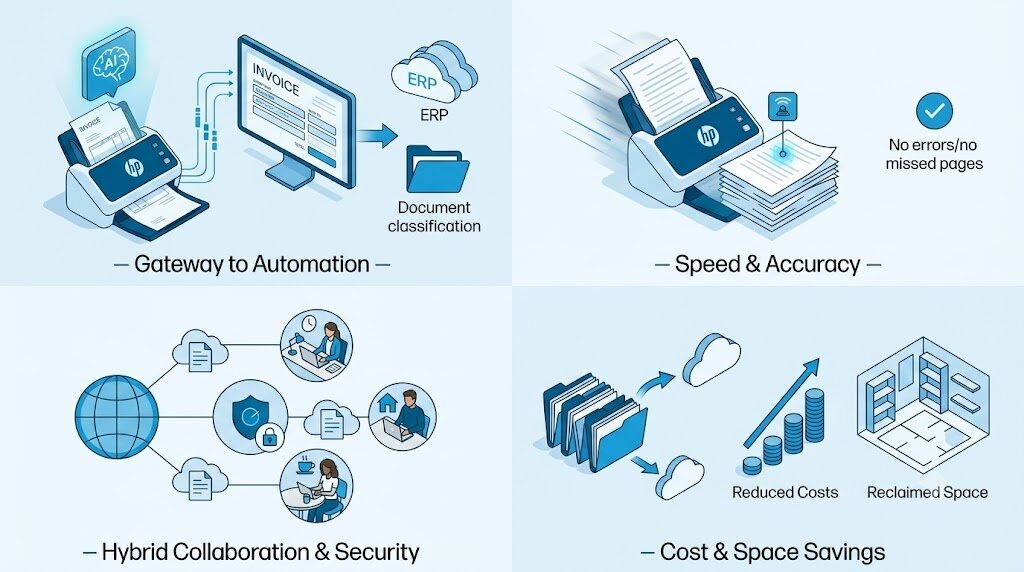
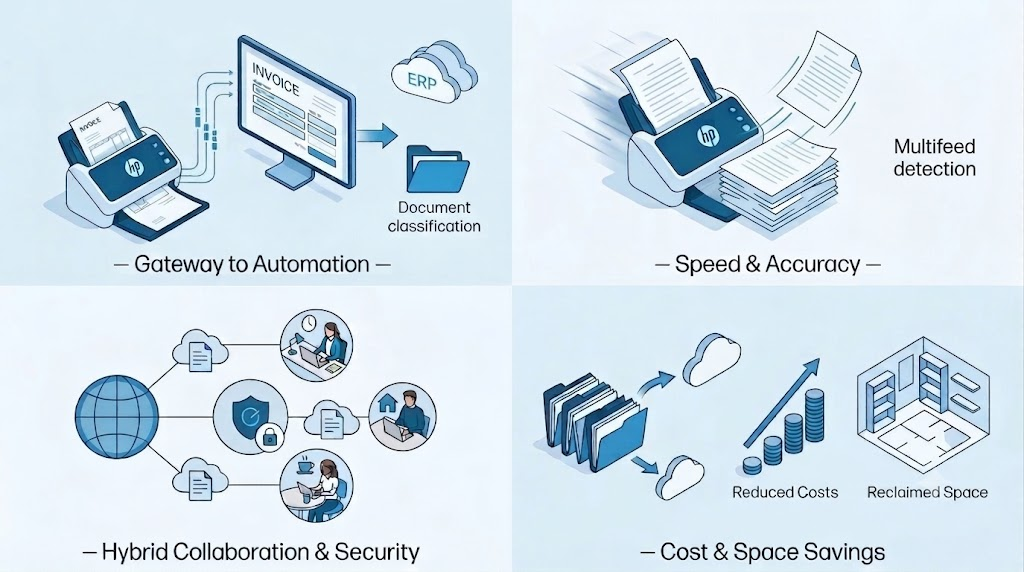
Rename product images to descriptive names, add missing images
Deleted images have been replaced by better-named versions used across
content pages; original unoptimized copies are kept locally only
(now gitignored) and excluded from the repo.

diff --git a/content/products.html b/content/products.html
@@ -33,7 +33,7 @@
   <!-- 1 -->
   <div class="product-card">
     <div class="product-card-img">
-      <img loading="lazy" decoding="async" src="assets/images/2000-s2.png" alt="HP ScanJet Pro 2000 s2">
+      <img loading="lazy" decoding="async" src="assets/images/HP%20ScanJet%20Pro%202000%20s2.png" alt="HP ScanJet Pro 2000 s2">
       <span class="product-tier-badge">Pro</span>
     </div>
     <div class="product-card-body">
@@ -49,7 +49,7 @@
         <div class="product-spec-row"><span class="product-spec-label">Connectivity</span><span class="product-spec-value">USB 3.0</span></div>
         <div class="product-spec-row"><span class="product-spec-label">Daily Duty Cycle</span><span class="product-spec-value">3,500 pages</span></div>
         <div class="product-spec-row"><span class="product-spec-label">Warranty</span><span class="product-spec-value">1 Year Return to HP</span></div>
-        <div class="product-spec-row"><span class="product-spec-label">SRP Price</span><span class="product-spec-value">12,020 บาท</span></div>
+        <div class="product-spec-row"><span class="product-spec-label">SRP Price</span><span class="product-spec-value">12,090 บาท</span></div>
       </div>
     </div>
     <div class="product-card-footer">
@@ -60,7 +60,7 @@
   <!-- 2 -->
   <div class="product-card">
     <div class="product-card-img">
-      <img loading="lazy" decoding="async" src="assets/images/3000-s4.png" alt="HP ScanJet Pro 3000 s4">
+      <img loading="lazy" decoding="async" src="assets/images/HP%20ScanJet%20Pro%203000%20s4.png" alt="HP ScanJet Pro 3000 s4">
       <span class="product-tier-badge">Pro</span>
     </div>
     <div class="product-card-body">
@@ -76,7 +76,7 @@
         <div class="product-spec-row"><span class="product-spec-label">Connectivity</span><span class="product-spec-value">USB 3.0</span></div>
         <div class="product-spec-row"><span class="product-spec-label">Daily Duty Cycle</span><span class="product-spec-value">4,000 pages</span></div>
         <div class="product-spec-row"><span class="product-spec-label">Warranty</span><span class="product-spec-value">1 Year Return to HP</span></div>
-        <div class="product-spec-row"><span class="product-spec-label">SRP Price</span><span class="product-spec-value">16,155 บาท</span></div>
+        <div class="product-spec-row"><span class="product-spec-label">SRP Price</span><span class="product-spec-value">16,190 บาท</span></div>
       </div>
     </div>
     <div class="product-card-footer">
@@ -87,7 +87,7 @@
   <!-- 3 -->
   <div class="product-card">
     <div class="product-card-img">
-      <img loading="lazy" decoding="async" src="assets/images/n4000-snw1.png" alt="HP ScanJet Pro N4000 snw1">
+      <img loading="lazy" decoding="async" src="assets/images/HP%20ScanJet%20Pro%20N4000%20snw1.png" alt="HP ScanJet Pro N4000 snw1">
       <span class="product-tier-badge">Pro</span>
     </div>
     <div class="product-card-body">
@@ -103,7 +103,7 @@
         <div class="product-spec-row"><span class="product-spec-label">Connectivity</span><span class="product-spec-value">USB 3.0, Ethernet, WiFi</span></div>
         <div class="product-spec-row"><span class="product-spec-label">Daily Duty Cycle</span><span class="product-spec-value">4,000 pages</span></div>
         <div class="product-spec-row"><span class="product-spec-label">Warranty</span><span class="product-spec-value">1 Year Return to HP</span></div>
-        <div class="product-spec-row"><span class="product-spec-label">SRP Price</span><span class="product-spec-value">20,070 บาท</span></div>
+        <div class="product-spec-row"><span class="product-spec-label">SRP Price</span><span class="product-spec-value">20,090 บาท</span></div>
       </div>
     </div>
     <div class="product-card-footer">
@@ -114,7 +114,7 @@
   <!-- 4 -->
   <div class="product-card">
     <div class="product-card-img">
-      <img loading="lazy" decoding="async" src="assets/images/4200-s1.png" alt="HP ScanJet Pro 4200 s1 Scanner">
+      <img loading="lazy" decoding="async" src="assets/images/HP%20ScanJet%20Pro%204200%20s1.png" alt="HP ScanJet Pro 4200 s1 Scanner">
       <span class="product-tier-badge">Pro</span>
     </div>
     <div class="product-card-body">
@@ -130,7 +130,7 @@
         <div class="product-spec-row"><span class="product-spec-label">Connectivity</span><span class="product-spec-value">USB 3.0</span></div>
         <div class="product-spec-row"><span class="product-spec-label">Daily Duty Cycle</span><span class="product-spec-value">4,500 pages</span></div>
         <div class="product-spec-row"><span class="product-spec-label">Warranty</span><span class="product-spec-value">1 Year Return to HP</span></div>
-        <div class="product-spec-row"><span class="product-spec-label">SRP Price</span><span class="product-spec-value">19,900 บาท</span></div>
+        <div class="product-spec-row"><span class="product-spec-label">SRP Price</span><span class="product-spec-value">19,890 บาท</span></div>
       </div>
     </div>
     <div class="product-card-footer">
@@ -141,7 +141,7 @@
   <!-- 5 -->
   <div class="product-card">
     <div class="product-card-img">
-      <img loading="lazy" decoding="async" src="assets/images/5000-s5.png" alt="HP ScanJet Enterprise Flow 5000 s5">
+      <img loading="lazy" decoding="async" src="assets/images/HP%20ScanJet%20Enterprise%20Flow%205000%20s5.png" alt="HP ScanJet Enterprise Flow 5000 s5">
       <span class="product-tier-badge is-premium">Enterprise</span>
     </div>
     <div class="product-card-body">
@@ -157,7 +157,7 @@
         <div class="product-spec-row"><span class="product-spec-label">Connectivity</span><span class="product-spec-value">USB 3.0</span></div>
         <div class="product-spec-row"><span class="product-spec-label">Daily Duty Cycle</span><span class="product-spec-value">7,500 pages</span></div>
         <div class="product-spec-row"><span class="product-spec-label">Warranty</span><span class="product-spec-value">1 Year Return to HP</span></div>
-        <div class="product-spec-row"><span class="product-spec-label">SRP Price</span><span class="product-spec-value">24,640 บาท</span></div>
+        <div class="product-spec-row"><span class="product-spec-label">SRP Price</span><span class="product-spec-value">24,690 บาท</span></div>
       </div>
     </div>
     <div class="product-card-footer">
@@ -168,7 +168,7 @@
   <!-- 6 -->
   <div class="product-card">
     <div class="product-card-img">
-      <img loading="lazy" decoding="async" src="assets/images/7000-s3.png" alt="HP ScanJet Enterprise Flow 7000 s3">
+      <img loading="lazy" decoding="async" src="assets/images/HP%20ScanJet%20Enterprise%20Flow%207000%20s3.png" alt="HP ScanJet Enterprise Flow 7000 s3">
       <span class="product-tier-badge is-premium">Enterprise</span>
     </div>
     <div class="product-card-body">
@@ -184,7 +184,7 @@
         <div class="product-spec-row"><span class="product-spec-label">Connectivity</span><span class="product-spec-value">USB 3.0</span></div>
         <div class="product-spec-row"><span class="product-spec-label">Daily Duty Cycle</span><span class="product-spec-value">7,500 pages</span></div>
         <div class="product-spec-row"><span class="product-spec-label">Warranty</span><span class="product-spec-value">1 Year Return to HP</span></div>
-        <div class="product-spec-row"><span class="product-spec-label">SRP Price</span><span class="product-spec-value">35,600 บาท</span></div>
+        <div class="product-spec-row"><span class="product-spec-label">SRP Price</span><span class="product-spec-value">35,590 บาท</span></div>
       </div>
     </div>
     <div class="product-card-footer">
@@ -195,7 +195,7 @@
   <!-- 7 -->
   <div class="product-card">
     <div class="product-card-img">
-      <img loading="lazy" decoding="async" src="assets/images/n7000-snw1.png" alt="HP ScanJet Enterprise Flow N7000 snw1">
+      <img loading="lazy" decoding="async" src="assets/images/HP%20ScanJet%20Enterprise%20Flow%20N7000%20snw1.png" alt="HP ScanJet Enterprise Flow N7000 snw1">
       <span class="product-tier-badge is-premium">Enterprise</span>
     </div>
     <div class="product-card-body">
@@ -211,7 +211,7 @@
         <div class="product-spec-row"><span class="product-spec-label">Connectivity</span><span class="product-spec-value">USB 3.0, Ethernet, WiFi</span></div>
         <div class="product-spec-row"><span class="product-spec-label">Daily Duty Cycle</span><span class="product-spec-value">7,500 pages</span></div>
         <div class="product-spec-row"><span class="product-spec-label">Warranty</span><span class="product-spec-value">1 Year Return to HP</span></div>
-        <div class="product-spec-row"><span class="product-spec-label">SRP Price</span><span class="product-spec-value">33,700 บาท</span></div>
+        <div class="product-spec-row"><span class="product-spec-label">SRP Price</span><span class="product-spec-value">33,690 บาท</span></div>
       </div>
     </div>
     <div class="product-card-footer">
@@ -222,7 +222,7 @@
   <!-- 8 -->
   <div class="product-card">
     <div class="product-card-img">
-      <img loading="lazy" decoding="async" src="assets/images/9000-s1.png" alt="HP ScanJet Enterprise Flow 9000 s1 Scanner">
+      <img loading="lazy" decoding="async" src="assets/images/HP%20ScanJet%20Enterprise%209000%20s1.png" alt="HP ScanJet Enterprise Flow 9000 s1 Scanner">
       <span class="product-tier-badge is-premium">Enterprise</span>
     </div>
     <div class="product-card-body">
@@ -238,7 +238,7 @@
         <div class="product-spec-row"><span class="product-spec-label">Connectivity</span><span class="product-spec-value">USB 3.0</span></div>
         <div class="product-spec-row"><span class="product-spec-label">Daily Duty Cycle</span><span class="product-spec-value">30,000 pages</span></div>
         <div class="product-spec-row"><span class="product-spec-label">Warranty</span><span class="product-spec-value">1 Year Return to HP</span></div>
-        <div class="product-spec-row"><span class="product-spec-label">SRP Price</span><span class="product-spec-value">81,000 บาท</span></div>
+        <div class="product-spec-row"><span class="product-spec-label">SRP Price</span><span class="product-spec-value">80,990 บาท</span></div>
       </div>
     </div>
     <div class="product-card-footer">
@@ -249,7 +249,7 @@
   <!-- 9 -->
   <div class="product-card">
     <div class="product-card-img">
-      <img loading="lazy" decoding="async" src="assets/images/n9000-sn1.png" alt="HP ScanJet Enterprise Flow N9000 sn1 Scanner">
+      <img loading="lazy" decoding="async" src="assets/images/HP%20ScanJet%20Enterprise%20N9000%20sn1.png" alt="HP ScanJet Enterprise Flow N9000 sn1 Scanner">
       <span class="product-tier-badge is-premium">Enterprise</span>
     </div>
     <div class="product-card-body">
@@ -265,7 +265,7 @@
         <div class="product-spec-row"><span class="product-spec-label">Connectivity</span><span class="product-spec-value">USB 3.0, Ethernet</span></div>
         <div class="product-spec-row"><span class="product-spec-label">Daily Duty Cycle</span><span class="product-spec-value">30,000 pages</span></div>
         <div class="product-spec-row"><span class="product-spec-label">Warranty</span><span class="product-spec-value">1 Year Return to HP</span></div>
-        <div class="product-spec-row"><span class="product-spec-label">SRP Price</span><span class="product-spec-value">94,000 บาท</span></div>
+        <div class="product-spec-row"><span class="product-spec-label">SRP Price</span><span class="product-spec-value">93,990 บาท</span></div>
       </div>
     </div>
     <div class="product-card-footer">
@@ -286,7 +286,7 @@
   <!-- F1 -->
   <div class="product-card">
     <div class="product-card-img">
-      <img loading="lazy" decoding="async" src="assets/images/2600-f1.png" alt="HP ScanJet Pro 2600 f1 Flatbed Scanner">
+      <img loading="lazy" decoding="async" src="assets/images/HP%20Scanjet%20Pro%202600%20f1.png" alt="HP ScanJet Pro 2600 f1 Flatbed Scanner">
       <span class="product-tier-badge">Pro</span>
     </div>
     <div class="product-card-body">
@@ -302,7 +302,7 @@
         <div class="product-spec-row"><span class="product-spec-label">Connectivity</span><span class="product-spec-value">USB 2.0</span></div>
         <div class="product-spec-row"><span class="product-spec-label">Daily Duty Cycle</span><span class="product-spec-value">1,500 pages</span></div>
         <div class="product-spec-row"><span class="product-spec-label">Warranty</span><span class="product-spec-value">1 Year Return to HP</span></div>
-        <div class="product-spec-row"><span class="product-spec-label">SRP Price</span><span class="product-spec-value">19,200 บาท</span></div>
+        <div class="product-spec-row"><span class="product-spec-label">SRP Price</span><span class="product-spec-value">19,190บาท</span></div>
       </div>
     </div>
     <div class="product-card-footer">
@@ -313,7 +313,7 @@
   <!-- F2 -->
   <div class="product-card">
     <div class="product-card-img">
-      <img loading="lazy" decoding="async" src="assets/images/3600-f1.png" alt="HP ScanJet Pro 3600 f1 Flatbed Scanner">
+      <img loading="lazy" decoding="async" src="assets/images/HP%20Scanjet%20Pro%203600%20f1.png" alt="HP ScanJet Pro 3600 f1 Flatbed Scanner">
       <span class="product-tier-badge">Pro</span>
     </div>
     <div class="product-card-body">
@@ -329,7 +329,7 @@
         <div class="product-spec-row"><span class="product-spec-label">Connectivity</span><span class="product-spec-value">USB 3.0</span></div>
         <div class="product-spec-row"><span class="product-spec-label">Daily Duty Cycle</span><span class="product-spec-value">3,000 pages</span></div>
         <div class="product-spec-row"><span class="product-spec-label">Warranty</span><span class="product-spec-value">1 Year Return to HP</span></div>
-        <div class="product-spec-row"><span class="product-spec-label">SRP Price</span><span class="product-spec-value">27,450 บาท</span></div>
+        <div class="product-spec-row"><span class="product-spec-label">SRP Price</span><span class="product-spec-value">27,490บาท</span></div>
       </div>
     </div>
     <div class="product-card-footer">
@@ -340,7 +340,7 @@
   <!-- F3 -->
   <div class="product-card">
     <div class="product-card-img">
-      <img loading="lazy" decoding="async" src="assets/images/n4600-fnw1.png" alt="HP ScanJet Pro N4600 fnw1 Flatbed Scanner">
+      <img loading="lazy" decoding="async" src="assets/images/HP%20ScanJet%20Pro%20N4600%20fnw1.png" alt="HP ScanJet Pro N4600 fnw1 Flatbed Scanner">
       <span class="product-tier-badge">Pro</span>
     </div>
     <div class="product-card-body">
@@ -367,7 +367,7 @@
   <!-- F4 -->
   <div class="product-card">
     <div class="product-card-img">
-      <img loading="lazy" decoding="async" src="assets/images/n6600-fnw1.png" alt="HP ScanJet Enterprise Flow N6600 fnw1 Flatbed Scanner">
+      <img loading="lazy" decoding="async" src="assets/images/HP%20Scanjet%20Enterprise%20Flow%20N6600%20fnw1.png" alt="HP ScanJet Enterprise Flow N6600 fnw1 Flatbed Scanner">
       <span class="product-tier-badge is-premium">Enterprise</span>
     </div>
     <div class="product-card-body">
@@ -383,7 +383,7 @@
         <div class="product-spec-row"><span class="product-spec-label">Connectivity</span><span class="product-spec-value">USB 3.0, Ethernet, WiFi</span></div>
         <div class="product-spec-row"><span class="product-spec-label">Daily Duty Cycle</span><span class="product-spec-value">8,000 pages</span></div>
         <div class="product-spec-row"><span class="product-spec-label">Warranty</span><span class="product-spec-value">1 Year Return to HP</span></div>
-        <div class="product-spec-row"><span class="product-spec-label">SRP Price</span><span class="product-spec-value">52,800 บาท</span></div>
+        <div class="product-spec-row"><span class="product-spec-label">SRP Price</span><span class="product-spec-value">52,790บาท</span></div>
       </div>
     </div>
     <div class="product-card-footer">
@@ -394,7 +394,7 @@
   <!-- F5 -->
   <div class="product-card">
     <div class="product-card-img">
-      <img loading="lazy" decoding="async" src="assets/images/8500-fn2.png" alt="HP Digital Sender Flow 8500 fn2 Document Capture Workstation">
+      <img loading="lazy" decoding="async" src="assets/images/HP%20Digital%20Sender%20Flow%208500fn2%20Document%20Capture%20Workstation.png" alt="HP Digital Sender Flow 8500 fn2 Document Capture Workstation">
       <span class="product-tier-badge is-premium">Enterprise</span>
     </div>
     <div class="product-card-body">
@@ -410,7 +410,7 @@
         <div class="product-spec-row"><span class="product-spec-label">Connectivity</span><span class="product-spec-value">USB, Ethernet</span></div>
         <div class="product-spec-row"><span class="product-spec-label">Daily Duty Cycle</span><span class="product-spec-value">10,000 pages</span></div>
         <div class="product-spec-row"><span class="product-spec-label">Warranty</span><span class="product-spec-value">1 Year On-site</span></div>
-        <div class="product-spec-row"><span class="product-spec-label">SRP Price</span><span class="product-spec-value">132,400 บาท</span></div>
+        <div class="product-spec-row"><span class="product-spec-label">SRP Price</span><span class="product-spec-value">132,390บาท</span></div>
       </div>
     </div>
     <div class="product-card-footer">
@@ -421,7 +421,7 @@
   <!-- F6 -->
   <div class="product-card">
     <div class="product-card-img">
-      <img loading="lazy" decoding="async" src="assets/images/n9120-fn2.png" alt="HP ScanJet Enterprise Flow N9120 fn2 Document Scanner">
+      <img loading="lazy" decoding="async" src="assets/images/HP%20ScanJet%20Enterprise%20Flow%20N9120fn2%20Document%20Scanner.png" alt="HP ScanJet Enterprise Flow N9120 fn2 Document Scanner">
       <span class="product-tier-badge is-premium">Enterprise</span>
     </div>
     <div class="product-card-body">
@@ -437,7 +437,7 @@
         <div class="product-spec-row"><span class="product-spec-label">Connectivity</span><span class="product-spec-value">USB, Ethernet</span></div>
         <div class="product-spec-row"><span class="product-spec-label">Daily Duty Cycle</span><span class="product-spec-value">20,000 pages</span></div>
         <div class="product-spec-row"><span class="product-spec-label">Warranty</span><span class="product-spec-value">1 Year On-site (Exchange)</span></div>
-        <div class="product-spec-row"><span class="product-spec-label">SRP Price</span><span class="product-spec-value">144,550 บาท</span></div>
+        <div class="product-spec-row"><span class="product-spec-label">SRP Price</span><span class="product-spec-value">144,590บาท</span></div>
       </div>
     </div>
     <div class="product-card-footer">

diff --git a/content/choose.html b/content/choose.html
@@ -9,7 +9,7 @@
 <h2 class="section-heading">1. ประเภทของเครื่องสแกน: Sheet-fed vs Flatbed</h2>
 
 <h3 class="sub-heading">Sheet-fed Scanner — เน้นความเร็วและปริมาณ</h3>
-<p class="body-text">เครื่องสแกนแบบป้อนกระดาษอัตโนมัติผ่านถาด ADF (Automatic Document Feeder) ที่ดึงเอกสารผ่านตัวเครื่องได้อย่างต่อเนื่อง</p>
+<p class="body-text">เครื่องสแกนแบบป้อนกระดาษอัตโนมัติผ่าน ADF (Automatic Document Feeder) ช่วยให้สแกนเอกสารจำนวนมากได้อย่างต่อเนื่อง</p>
 <ul class="body-list">
   <li>เหมาะสำหรับ: เอกสารจำนวนมากที่ต้องการความเร็ว, เอกสารสภาพปกติ (ไม่ยับ ไม่ฉีกขาด) และกระบวนการทำงานที่ต้องสแกนอย่างต่อเนื่อง</li>
 </ul>
@@ -40,10 +40,10 @@
 
 <h2 class="section-heading">3. ความเร็วและระบบการสแกน (Scan Speed & Simplex / Duplex)</h2>
 <p class="body-text"><strong class="highlight">ความเร็ว (Scan Speed)</strong> — วัดเป็นหน่วย ppm (แผ่นต่อนาที) หากองค์กรของคุณต้องสแกนเอกสารต่อวันเป็นจำนวนมาก ควรเลือกเครื่องสแกนที่มีความเร็วสูง เพื่อรองรับปริมาณงานได้อย่างรวดเร็ว</p>
-<p class="body-text"><strong class="highlight">การสแกนหน้าเดียว/สองหน้า (Simplex / Duplex)</strong> — หากเอกสารส่วนใหญ่พิมพ์ข้อมูลทั้งสองด้าน การเลือกเครื่องสแกนแบบ Duplex (สแกนสองหน้าพร้อมกันในการดึงกระดาษครั้งเดียว) จะช่วยประหยัดเวลาการสแกนลงครึ่งหนึ่ง</p>
+<p class="body-text"><strong class="highlight">การสแกนหน้าเดียว/สองหน้า (Simplex / Duplex)</strong> — หากเอกสารส่วนใหญ่พิมพ์ข้อมูลทั้งสองด้าน การเลือกเครื่องสแกนแบบ Duplex (สแกนสองหน้าพร้อมกันในการดึงกระดาษครั้งเดียว) จะช่วยประหยัดเวลาการสแกน</p>
 
 <h2 class="section-heading">4. ขนาดกระดาษที่รองรับ (Media Size Support)</h2>
-<p class="body-text">โดยปกติเครื่องสแกนจะรองรับขนาด A4 เป็นมาตรฐานอยู่แล้ว แต่หากงานของคุณต้องจัดการกับเอกสารขนาดใหญ่กว่าอย่าง A3 หรือเอกสารที่มีความหนาพิเศษ เช่น พาสปอร์ต ควรตรวจสอบคุณสมบัติ Media Size Support เฉพาะรุ่น เพื่อให้เลือกใช้เครื่องสแกนที่ตอบโจทย์ความต้องการขององค์กรได้อย่างครบถ้วน</p>
+<p class="body-text">โดยปกติเครื่องสแกนจะรองรับขนาด A4 เป็นมาตรฐานอยู่แล้ว แต่หากงานของคุณต้องจัดการกับเอกสารขนาดใหญ่กว่า เช่น A3 หรือเอกสารที่มีความหนาพิเศษ เช่น พาสปอร์ต ควรตรวจสอบคุณสมบัติ Media Size Support เฉพาะรุ่น เพื่อให้เลือกใช้เครื่องสแกนที่ตอบโจทย์ความต้องการขององค์กรได้อย่างครบถ้วน</p>
 
 <h2 class="section-heading">5. ปริมาณงานที่แนะนำต่อวัน (Daily Duty Cycle)</h2>
 <p class="body-text">คือจำนวนหน้าที่เครื่องสแกนได้รับการออกแบบมาให้รองรับได้สูงสุดต่อวัน เพื่อให้เครื่องทำงานได้อย่างเต็มประสิทธิภาพและยืดอายุการใช้งานให้นานที่สุด การเลือกเครื่องสแกนควรประเมินจากปริมาณการใช้งานจริงและเลือกเครื่องที่มีค่า Daily Duty Cycle สูงกว่าปริมาณงานที่ต้องการใช้งานจริง</p>

diff --git a/content/usecases.html b/content/usecases.html
@@ -1,5 +1,5 @@
 <p class="article-title">การนำ HP Scanner Solution ไปประยุกต์ใช้ในแต่ละองค์กร</p>
-<p class="article-subtitle">ในปัจจุบัน แต่ละองค์กรต่างมีระบบหลังบ้าน (Backend System) ที่ใช้บริหารจัดการธุรกิจของตัวเองอยู่แล้ว ไม่ว่าจะเป็นระบบ ERP, บัญชี, HIS ของโรงพยาบาล หรือระบบที่พัฒนาขึ้นเอง (In-house) ดังนั้น หน้าที่ของสแกนเนอร์และซอฟต์แวร์โซลูชัน คือการทำหน้าที่เป็น "สะพานเชื่อม" ที่แปลงเอกสารกระดาษให้กลายเป็นข้อมูลดิจิทัล เพื่อนำไปป้อนเข้าสู่ระบบหลังบ้านเหล่านั้นโดยอัตโนมัติ โดยที่พนักงานไม่จำเป็นต้องนั่งคีย์ข้อมูลด้วยมืออีกต่อไป</p>
+<p class="article-subtitle">ในปัจจุบัน ทุกองค์กรต่างมีระบบบริหารจัดการภายใน (Backend System) เช่น ERP, ระบบบัญชี, HIS ของโรงพยาบาล หรือระบบที่พัฒนาขึ้นเอง (In-house) HP Scanner Solution จึงเข้ามาทำหน้าที่เป็น “สะพานเชื่อมดิจิทัล” (Digital Bridge) เปลี่ยนเอกสารกระดาษให้เป็นข้อมูลดิจิทัล พร้อมนำเข้าสู่ระบบหลังบ้านโดยอัตโนมัติ เพื่อลดขั้นตอนการคีย์ข้อมูลด้วยมือ (Manual Data Entry) และลดข้อผิดพลาดอย่างมีประสิทธิภาพ</p>
 
 <img loading="lazy" decoding="async" class="article-img" src="assets/images/img12.jpg" alt="Workflow: Document to Scanner to E-Document to Digital Workflow">
 <p class="img-caption">เปลี่ยนกระดาษให้เป็นข้อมูลดิจิทัล พร้อมส่งเข้าระบบหลังบ้านอัตโนมัติ</p>
@@ -11,7 +11,6 @@
 <h2 class="section-heading">1. การตั้งชื่อไฟล์ด้วย HN Number เพื่อใช้กับระบบหลังบ้านของโรงพยาบาล</h2>
 
 <p class="body-text"><strong class="highlight">ระบบหลังบ้าน:</strong> HIS (Hospital Information System) หรือระบบคลังประวัติผู้ป่วยดิจิทัล (EMR)</p>
-<p class="body-text">ขั้นตอนการทำงาน:</p>
 
 <h3 class="sub-heading">หน้าที่ของ HP Scanner & Software</h3>
 <ul class="body-list">
@@ -40,7 +39,6 @@
 <h2 class="section-heading">2. การตั้งชื่อไฟล์ด้วยค่าของ Barcode หรือ QR Code เพื่อใช้กับระบบจัดการเอกสาร</h2>
 
 <p class="body-text"><strong class="highlight">ระบบหลังบ้าน:</strong> DMS (Document Management System) หรือระบบจัดการเอกสารองค์กร</p>
-<p class="body-text">ขั้นตอนการทำงาน:</p>
 
 <h3 class="sub-heading">หน้าที่ของ HP Scanner & Software</h3>
 <ul class="body-list">

diff --git a/content/why-scanner.html b/content/why-scanner.html
@@ -16,7 +16,7 @@
 </ul>
 
 <blockquote class="callout">
-  <p><strong class="highlight">สิ่งสำคัญ:</strong> ซอฟต์แวร์อัจฉริยะเหล่านี้จะประมวลผลได้อย่างแม่นยำ ไร้ข้อผิดพลาด ก็ต่อเมื่อได้รับไฟล์ภาพที่คมชัดและได้มาตรฐานสูงเท่านั้น เครื่องสแกนเนอร์เฉพาะทางจึงเป็นจุดเริ่มต้นสำคัญที่ช่วยให้ระบบอัตโนมัติในองค์กรทำงานได้อย่างสมบูรณ์แบบ</p>
+  <p><strong class="highlight">สิ่งสำคัญ:</strong> ซอฟต์แวร์อัจฉริยะเหล่านี้จะประมวลผลได้อย่างแม่นยำ ไร้ข้อผิดพลาด ก็ต่อเมื่อได้รับไฟล์ภาพที่คมชัดและได้มาตรฐานเท่านั้น เครื่องสแกนเนอร์เฉพาะทางจึงเป็นจุดเริ่มต้นสำคัญที่ช่วยให้ระบบอัตโนมัติในองค์กรทำงานได้อย่างสมบูรณ์แบบ</p>
 </blockquote>
 
 <h2 class="section-heading">2. ความเร็วและความแม่นยำสำหรับเอกสารปริมาณมาก</h2>
@@ -28,7 +28,7 @@
 </ul>
 
 <h2 class="section-heading">3. ยกระดับองค์กรสู่ Digital Workplace อย่างแท้จริง</h2>
-<p class="body-text">นอกเหนือจากความเร็วและระบบอัตโนมัติแล้ว การเปลี่ยนผ่านเอกสารกระดาษให้เป็นไฟล์ดิจิทัล 100% ยังช่วยสร้างประโยชน์ระยะยาวให้กับการบริหารจัดการองค์กร</p>
+<p class="body-text">นอกเหนือจากความเร็วและระบบอัตโนมัติแล้ว การเปลี่ยนผ่านเอกสารกระดาษให้เป็นไฟล์ดิจิทัล ยังช่วยสร้างประโยชน์ระยะยาวให้กับการบริหารจัดการองค์กร</p>
 
 <ul class="body-list">
   <li><strong class="highlight">ทำงานร่วมกันได้จากทุกที่ (Collaboration)</strong> — ทีมงานสามารถเข้าถึงและใช้งานเอกสารที่ต้องการได้ทันที เพิ่มความคล่องตัวในการทำงานยุค Hybrid Working</li>

diff --git a/content/faq.html b/content/faq.html
@@ -11,7 +11,7 @@
     <div class="faq-answer">
       เครื่องพิมพ์มัลติฟังก์ชัน (MFP) เป็นอุปกรณ์แบบ All-in-One ที่รวมฟังก์ชันพิมพ์ ถ่ายเอกสาร และสแกนไว้ในเครื่องเดียว เหมาะสำหรับออฟฟิศที่เน้นความประหยัดพื้นที่ และใช้งานสแกนเพียงครั้งคราวควบคู่ไปกับงานพิมพ์ทั่วไป แต่มีข้อจำกัดเรื่องความเร็ว และมักเกิดปัญหาคอขวดหากมีพนักงานต้องการใช้งานพร้อมกันหลายคน
       <br><br>
-      ในขณะที่เครื่องสแกนเนอร์เฉพาะทาง (Dedicated Scanner) ถูกออกแบบมาเพื่อจัดการงานเอกสารปริมาณมากโดยเฉพาะ โดดเด่นด้วยความเร็วในการสแกนที่เหนือกว่า มีระบบป้องกันกระดาษติดที่มีประสิทธิภาพ และมาพร้อมซอฟต์แวร์ช่วยจัดระบบไฟล์อัตโนมัติ จึงเหมาะสำหรับองค์กรที่ต้องการเปลี่ยนกองเอกสารจำนวนมากให้เป็นระบบดิจิทัลอย่างจริงจังเพื่อความรวดเร็วและแม่นยำสูงสุด
+      ในขณะที่เครื่องสแกนเนอร์เฉพาะทาง (Dedicated Scanner) ถูกออกแบบมาเพื่อจัดการงานเอกสารปริมาณมากโดยเฉพาะ โดดเด่นด้วยความเร็วในการสแกนที่เหนือกว่า มีระบบป้องกันกระดาษติดที่มีประสิทธิภาพ และมาพร้อมซอฟต์แวร์ช่วยจัดการไฟล์ จึงเหมาะสำหรับองค์กรที่ต้องการเปลี่ยนกองเอกสารจำนวนมากให้เป็นระบบดิจิทัลอย่างจริงจังเพื่อความรวดเร็วและแม่นยำสูงสุด
     </div>
   </div>
 

diff --git a/content/software.html b/content/software.html
@@ -85,7 +85,7 @@
     <button class="feature-toggle">
       <div class="feature-icon"><i class="ti ti-tag"></i></div>
       <div class="feature-toggle-text">
-        <div class="feature-toggle-name">File Name</div>
+        <div class="feature-toggle-name">Auto File Name</div>
         <div class="feature-toggle-hint">ตั้งชื่อไฟล์อัตโนมัติจาก Date, OCR, Barcode, Counter</div>
       </div>
       <i class="ti ti-chevron-down feature-chevron"></i>

diff --git a/style.css b/style.css
@@ -913,6 +913,7 @@ blockquote.callout p {
   position: relative;
   width: 100%;
   min-width: 0;
+  min-height: 0;
   background: #FFFFFF;
   aspect-ratio: 16/9;
   display: flex;
@@ -920,6 +921,7 @@ blockquote.callout p {
   justify-content: center;
   padding: 16px;
   border-bottom: 1px solid var(--border);
+  overflow: hidden;
 }
 
 .product-tier-badge {
